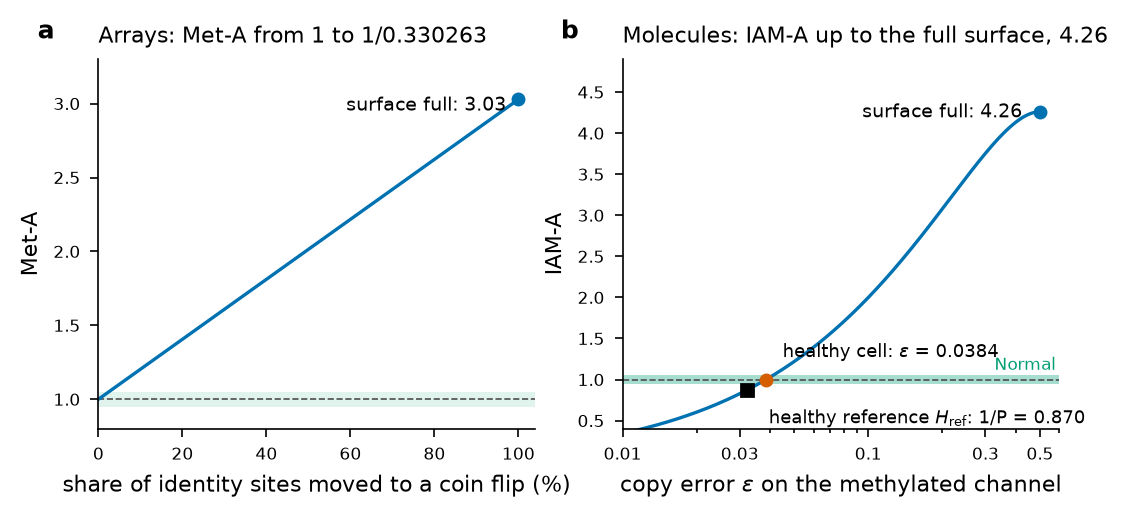
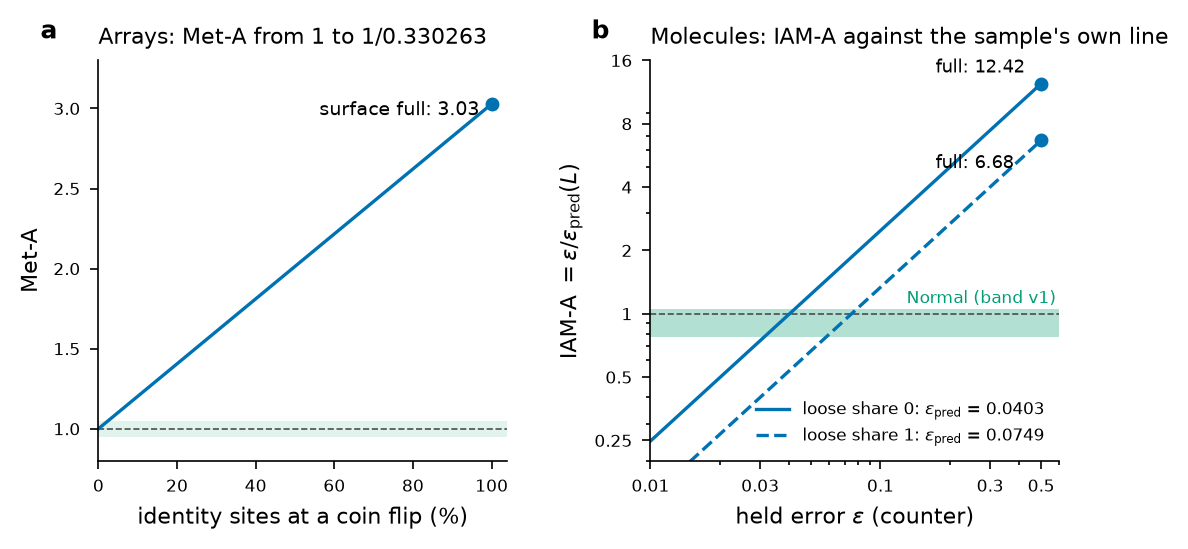
Book audit pass 2: floor-breach chapter and full-surface figure in the commissioned IAM-A form; IAM-A full surface 12.42 (was 12.41, rounding) (OTH-072)

diff --git a/docs/book/figscripts/fig_p4.py b/docs/book/figscripts/fig_p4.py
@@ -151,26 +151,29 @@ def fig_fullsurface():
     q = np.linspace(0, 1, 101)
     A_meta = ((1 - q) * h.mean() + q * 1.0) / HREF
     Amax = 1 / HREF
+    # (b) IAM-A as commissioned (2026-10-18; was the retired position form): A = eps / eps_pred(L), eps_pred(L) = firm + slope * L from the chain's
+    # self-reference line; the full surface is the held error at one half, so it is the sample's own: 0.5 / eps_pred(L)
+    SL = json.load(open(MP / "chain" / "Runtime Matrices" / "IAM_A_SelfRef" / "selfref_line_v1.json")); BD = json.load(open(MP / "chain" / "Runtime Matrices" / "IAM_A_SelfRef" / "band_v1.json"))
+    lo_b, hi_b = BD.get("lo", BD.get("band", {}).get("lo")), BD.get("hi", BD.get("band", {}).get("hi"))
     e = np.logspace(np.log10(0.01), np.log10(0.5), 300)
-    iam = H(e) / (P_NEU * H(EPS0)); Amax2 = 1 / (P_NEU * H(EPS0))
-    from scipy.optimize import brentq
-    eh = float(brentq(lambda x: H(x) / (P_NEU * H(EPS0)) - 1, EPS0, 0.5))   # exact root (0.03619), not a grid argmin
-    fig, (a1, a2) = plt.subplots(1, 2, figsize=(S.TEXTW, 2.4))
+    fig, (a1, a2) = plt.subplots(1, 2, figsize=(S.TEXTW, 2.6))
     a1.plot(q * 100, A_meta, color=S.IAM); normal_band(a1)
     a1.plot(100, Amax, "o", color=S.IAM, ms=4); a1.annotate(f"surface full: {Amax:.2f}", (100, Amax), xytext=(-62, -4), textcoords="offset points", fontsize=7)
-    a1.set_xlabel("share of identity sites moved to a coin flip (%)"); a1.set_ylabel("Met-A"); a1.set_xlim(0, 104); a1.set_ylim(0.8, 3.3)
+    a1.set_xlabel("identity sites at a coin flip (%)"); a1.set_ylabel("Met-A"); a1.set_xlim(0, 104); a1.set_ylim(0.8, 3.3)
     a1.set_title("Arrays: Met-A from 1 to 1/0.330263"); S.panel_letter(a1, "a")
-    a2.plot(e, iam, color=S.IAM); normal_band(a2, alpha=0.35)
-    a2.text(0.6 * 0.97, 1.07, "Normal", ha="right", va="bottom", fontsize=6, color=NCOL)
-    a2.plot(eh, 1.0, "o", color=S.DATA, ms=4, zorder=3); a2.annotate(f"healthy cell: $\\varepsilon$ = {eh:.4f}", (eh, 1.0), xytext=(6, 8), textcoords="offset points", fontsize=6.5)
-    a2.plot(EPS0, 1 / P_NEU, "s", color="k", ms=4); a2.annotate(f"healthy reference $H_{{\\rm ref}}$: 1/P = {1/P_NEU:.3f}", (EPS0, 1 / P_NEU), xytext=(8, -12), textcoords="offset points", fontsize=6.5)
-    a2.plot(0.5, Amax2, "o", color=S.IAM, ms=4); a2.annotate(f"surface full: {Amax2:.2f}", (0.5, Amax2), xytext=(-64, -2), textcoords="offset points", fontsize=7)
-    a2.set_xscale("log"); a2.set_xlim(0.01, 0.6); a2.set_ylim(0.4, 4.9)
+    fig.subplots_adjust(wspace=0.35)
+    a2.axhspan(lo_b, hi_b, color=NCOL, alpha=0.30, lw=0, zorder=0); a2.axhline(1.0, color=S.GR, lw=0.6, ls="--", zorder=0)
+    a2.text(0.6 * 0.97, hi_b * 1.02, "Normal (band v1)", ha="right", va="bottom", fontsize=6, color=NCOL)
+    for L, ls in ((0.0, "-"), (1.0, "--")):
+        ep = SL["firm"] + SL["slope"] * L; a2.plot(e, e / ep, color=S.IAM, ls=ls, label=f"loose share {L:.0f}: $\\varepsilon_{{\\rm pred}}$ = {ep:.4f}")
+        a2.plot(0.5, 0.5 / ep, "o", color=S.IAM, ms=4); a2.annotate(f"full: {0.5 / ep:.2f}", (0.5, 0.5 / ep), xytext=(-38, 4 if L == 0 else -10), textcoords="offset points", fontsize=6.5)
+    a2.set_xscale("log"); a2.set_yscale("log"); a2.set_xlim(0.01, 0.6); a2.set_ylim(0.2, 16)
+    a2.set_yticks([0.25, 0.5, 1, 2, 4, 8, 16], ["0.25", "0.5", "1", "2", "4", "8", "16"]); a2.yaxis.set_minor_formatter(plt.NullFormatter())
     a2.set_xticks([0.01, 0.03, 0.1, 0.3, 0.5], ["0.01", "0.03", "0.1", "0.3", "0.5"]); a2.xaxis.set_minor_formatter(plt.NullFormatter())
-    a2.set_xlabel(r"held error $\varepsilon$ on the methylated channel"); a2.set_ylabel("IAM-A")
-    a2.set_title(f"Molecules: IAM-A up to the full surface, {Amax2:.2f}"); S.panel_letter(a2, "b")
+    a2.set_xlabel(r"held error $\varepsilon$ (counter)"); a2.set_ylabel(r"IAM-A $=\varepsilon/\varepsilon_{\rm pred}(L)$"); a2.legend(loc="lower right", fontsize=6)
+    a2.set_title("Molecules: IAM-A against the sample's own line"); S.panel_letter(a2, "b")
     S.save(fig, "part6", "fig_p4_05_fullsurface")
-    return dict(Amax_meta=Amax, Amax_iama=Amax2, floor=1 / P_NEU, eps_healthy=eh, Hmean=float(h.mean()))
+    return dict(Amax_meta=Amax, Amax_iama_L0=0.5 / SL["firm"], Amax_iama_L1=0.5 / (SL["firm"] + SL["slope"]), Hmean=float(h.mean()))
 
 
 def fig_surfaces():

diff --git a/docs/book/part6/p6_00b_astrogenetics.tex b/docs/book/part6/p6_00b_astrogenetics.tex
@@ -127,7 +127,7 @@ for its mass to bend space in any way an instrument could detect, so the gravita
 saturation account does. A cell maintains its identity by writing its running record onto the surface available to it, which is not
 spacetime but its own chromatin, the methylation pattern. A healthy cell sits well below the limit of what that surface can hold. The limit
 itself is exact and known from the healthy reference alone: the surface is full when every identity site sits at a coin flip,
-$\beta=\tfrac12$, which for neutrophils is $A=1/0.330263=3.03$ on arrays (Met-A). On single molecules IAM-A reads each sample against its own line, so its full surface is the sample's own: the held error at one half, $A=0.5/\varepsilon_{\rm pred}(L)$, between 6.68 and 12.41 (Chapter~\ref{ch:floorbreach}). \calc
+$\beta=\tfrac12$, which for neutrophils is $A=1/0.330263=3.03$ on arrays (Met-A). On single molecules IAM-A reads each sample against its own line, so its full surface is the sample's own: the held error at one half, $A=0.5/\varepsilon_{\rm pred}(L)$, between 6.68 and 12.42 (Chapter~\ref{ch:floorbreach}). \calc
 
 A cell moving toward cancer is, in this reading, one whose record is climbing toward that full surface, writing more and more error onto
 a surface that has only so much room, until the surface is full. The black hole and the tumor
@@ -150,7 +150,7 @@ The gauge has three fixed points, and each comes from physics or from the cell's
 point & what it is & neutrophils \\\midrule
 the floor $\Hmin$, on the left & where thermal kicks win against everything one ATP can buy: a held error of $1/(1+e^{M})=8\times10^{-10}$, $\Hmin=2.5\times10^{-8}$ bits per site; nothing reads below it & Met-A $1\times10^{-7}$; IAM-A $1$--$2\times10^{-8}$, the sample's own (\calc) \\
 1, in the middle & the healthy reference: the same cell type healthy, on the same platform, through the same calibration; Met-A's Normal is $1\pm0.05$, a design tolerance; IAM-A's band v1 is $0.779$--$1.055$ & Met-A 0.330263 bits on EPIC (\calibrated); IAM-A the held error the sample's own loose share predicts on the healthy line, $\varepsilon_{\rm pred}(L)=0.0403+0.0346\,L$ (\measured) \\
-the full surface, on the right & every identity site at a coin flip: the most a pattern can be blurred & Met-A 3.03; IAM-A $0.5/\varepsilon_{\rm pred}(L)$, 6.68--12.41 (\calc) \\\bottomrule
+the full surface, on the right & every identity site at a coin flip: the most a pattern can be blurred & Met-A 3.03; IAM-A $0.5/\varepsilon_{\rm pred}(L)$, 6.68--12.42 (\calc) \\\bottomrule
 \end{tabularx}
 \end{center}
 Breach, the point past which a cell's over-writing reads as cancer, lies to the right of Normal and short of the full surface; the cell there has not lost its identity, it is writing too much error (identity that cannot be held is the other end, left of the floor). It is to

diff --git a/docs/book/part6/p6_05_floorbreach.tex b/docs/book/part6/p6_05_floorbreach.tex
@@ -60,18 +60,16 @@ neutrophils on arrays that is
   A_{\max}^{\text{Met-A}}=\frac{1}{0.330263}=3.03,
   \label{eq:Amax}
 \end{equation}
-and on single molecules, where the held error itself reaches one half, $A_{\max}^{\text{IAM-A}}=1/(1.149\times0.2043)=4.26$ in the earlier position form of IAM-A (now a development flag). The commissioned IAM-A reads each sample against its own line, $A=\varepsilon/\varepsilon_{\rm pred}(L)$, so its far end is the sample's own: $A_{\max}=0.5/\varepsilon_{\rm pred}(L)$, from $12.41$ for a sample with no loose tiles to $6.68$ for one that is all loose.
-\calc{} Both follow from the healthy reference alone; neither is fitted. They are the cell's counterpart of the
+and on single molecules, where the held error itself reaches one half. IAM-A reads each sample against its own line, $A=\varepsilon/\varepsilon_{\rm pred}(L)$, so its far end is the sample's own: $A_{\max}^{\text{IAM-A}}=0.5/\varepsilon_{\rm pred}(L)$, from $12.42$ for a sample with no loose tiles to $6.68$ for one that is all loose.
+\calc{} Both follow from the reference alone, the healthy cell type's on arrays and the sample's own on molecules; neither is fitted. They are the cell's counterpart of the
 Chandrasekhar line on the star gauge of Chapter~\ref{ch:blackholes} (Figure~\ref{fig:stargauge}): the exactly known far end of the gauge.
 
 Figure~\ref{fig:p4_fullsurface} draws both readings from the healthy cell to the full surface.
 
 \begin{figure}[htbp]\centering
 \includegraphics[width=0.95\textwidth]{figures/part6/fig_p4_05_fullsurface.pdf}
-\caption{The far end of the gauge, from the healthy reference alone. (a) Met-A when a share of the 6,000 identity sites is moved to $\beta=\tfrac12$:
-from 1 to $1/0.330263=3.03$. (b) IAM-A in its earlier position form, $H(\varepsilon)/(P\,H(\varepsilon_0))$ (now a development flag), against held error, with $P=1.149$ and
-$\varepsilon_0=0.032$: the average healthy cell type ($\Href$) at $1/P=0.870$, the healthy neutrophil at $\varepsilon=0.0384$, the full surface
-4.26 at $\varepsilon=\tfrac12$. Normal shaded. \calc}
+\caption{The far end of the gauge, from the reference alone. (a) Met-A when a share of the 6,000 identity sites is moved to $\beta=\tfrac12$:
+from 1 to $1/0.330263=3.03$. (b) IAM-A, $\varepsilon/\varepsilon_{\rm pred}(L)$, against the held error, for a sample with no loose tiles ($L=0$, solid) and one that is all loose ($L=1$, dashed), on the chain's self-reference line ($\varepsilon_{\rm pred}=0.0403+0.0346\,L$): the full surface at $\varepsilon=\tfrac12$ is 12.42 and 6.68. IAM-A's Normal band (band v1, 0.779--1.055) shaded. \calc}
 \label{fig:p4_fullsurface}
 \end{figure}
 

diff --git a/docs/book/part6/p6_06_gauge.tex b/docs/book/part6/p6_06_gauge.tex
@@ -23,7 +23,7 @@ because the question is whether this cell is still the cell it should be.
 C-score (not built). On every row 1 is the healthy reference, in the middle; the left half runs from the floor to 1 and the right half from 1 to
 the far end on a log scale, so the two halves are not on one scale. Normal (green) is $0.95$--$1.05$ on the Met-A row. Bars are measured readings: held-out
 healthy arrays, and the same arrays with known damage (Chapter~\ref{ch:skytools}). $\Hmin$, the floor where thermal kicks win against one ATP, is at $1\times10^{-7}$ on the Met-A row and $1$--$2\times10^{-8}$ on the IAM-A row (the sample's own), off the left edge. Breach and the cancer region lie to the right of Normal and are
-to be measured on this scale. The surface is full when every identity site sits at a coin flip: $3.03$ (Met-A); on IAM-A, read against the sample's own line, when the held error reaches one half, $0.5/\varepsilon_{\rm pred}(L)$, between $6.68$ and $12.41$.
+to be measured on this scale. The surface is full when every identity site sits at a coin flip: $3.03$ (Met-A); on IAM-A, read against the sample's own line, when the held error reaches one half, $0.5/\varepsilon_{\rm pred}(L)$, between $6.68$ and $12.42$.
 The Met-A C-score sits on the same gauge: 1 is the healthy baseline, and its far end, every 50-site block moving as one, is 45. \calc}
 \label{fig:gauge}
 \end{figure}
@@ -38,7 +38,7 @@ healthy reference & 1 (IAM-A: the sample's own line, $\varepsilon_{\rm pred}(L)=
 Normal (Met-A) & $0.95$--$1.05$ & a design tolerance set by hand (2026-10-01), then confirmed on healthy arrays (525 of 541 inside); IAM-A has its own band, v1 $0.779$--$1.055$, each sample read against its own reference, and does not borrow this one \\
 breach & to be measured & placed from per-person data: tumor/normal pairs, the DNMT1-inhibitor series, blood cancers \\
 cancer region & beyond breach & to be measured the same way \\
-full surface & Met-A $3.03$; IAM-A $0.5/\varepsilon_{\rm pred}(L)$, $6.68$--$12.41$ & \calc{} from the healthy reference alone (Met-A) and from the sample's own line (IAM-A) \\
+full surface & Met-A $3.03$; IAM-A $0.5/\varepsilon_{\rm pred}(L)$, $6.68$--$12.42$ & \calc{} from the healthy reference alone (Met-A) and from the sample's own line (IAM-A) \\
 C-score far end & Met-A C-score $45$ & \calc{} block size 50 over the healthy baseline 1.1104; the sequencing C-score was tried and does not hold on reduced-representation reads \\\bottomrule
 \end{tabular}
 \end{center}

diff --git a/docs/book/appendices/app_F_glossary.tex b/docs/book/appendices/app_F_glossary.tex
@@ -43,7 +43,7 @@ filed under the name of its letter.
 \iamrowrule
 \textbf{Alcubierre metric} & A solution of general relativity in which a flat region is carried by reshaping the geometry around it. It requires negative energy density in the wall, violating the weak energy condition. {\footnotesize(Ch.~\ref{ch:exploratory})}\\[1pt]
 \iamrowrule
-\textbf{$A_{\max}$ (full surface)} & The far end of a cell gauge: the reading when every identity site sits at a coin flip, one bit over the healthy reference. For neutrophils 3.03 on Met-A, from the healthy reference alone. On IAM-A it is the sample's own, the held error at one half over what its loose share predicts, $0.5/\varepsilon_{\rm pred}(L)$, between 6.68 and 12.41. {\footnotesize(Chs.~\ref{ch:floorbreach}, \ref{ch:gauge})}\\[1pt]
+\textbf{$A_{\max}$ (full surface)} & The far end of a cell gauge: the reading when every identity site sits at a coin flip, one bit over the healthy reference. For neutrophils 3.03 on Met-A, from the healthy reference alone. On IAM-A it is the sample's own, the held error at one half over what its loose share predicts, $0.5/\varepsilon_{\rm pred}(L)$, between 6.68 and 12.42. {\footnotesize(Chs.~\ref{ch:floorbreach}, \ref{ch:gauge})}\\[1pt]
 \iamrowrule
 \textbf{AMD Ryzen 9 9950X} & A desktop processor; the worked example of the chip gauge and the baseline of prediction S2. Its power and clock are the maker's specification; no maker-published transistor count exists, so its reading is the range 576--593 times $\kB T_j\ln2$ set by the two die-level counts, $(20.0\text{--}20.6)\times10^9$. {\footnotesize(Chs.~\ref{ch:cmos}, \ref{ch:landauer}, \ref{ch:onegauge})}\\[1pt]
 \iamrowrule

diff --git a/docs/book/part7/p7_08_one_gauge.tex b/docs/book/part7/p7_08_one_gauge.tex
@@ -40,7 +40,7 @@ chip gauge & $E_{\rm sw}=\mathrm{TDP}/(Nf)$ & the chip as built & Landauer floor
 \end{tabular}\end{center}
 Some systems also have a point on the high side where they stop working: for a qubit, the gate error at which error correction fails ($p\approx1\,\%$;
 the transmon worked example at $A=10$). For cells the high side is the cancer direction. Breach and the cancer region beyond it lie to the right of Normal and are to be measured on this scale from per-person data; the far end, a full
-surface, is known: $1/0.330263=3.03$ on Met-A for neutrophils, and on IAM-A the sample's own, the held error at one half, $0.5/\varepsilon_{\rm pred}(L)$, between $6.68$ and $12.41$ \calc. For a compact star the far-right line is a
+surface, is known: $1/0.330263=3.03$ on Met-A for neutrophils, and on IAM-A the sample's own, the held error at one half, $0.5/\varepsilon_{\rm pred}(L)$, between $6.68$ and $12.42$ \calc. For a compact star the far-right line is a
 limiting mass: the Chandrasekhar mass for a white dwarf and the maximum (TOV) mass for a neutron star (Chapter~\ref{ch:blackholes}, Fig.~\ref{fig:stargauge}). The region between $H_{\min}$ and the healthy
 band is less error than healthy; for cells what it means biologically is the next thing to measure.
 

diff --git a/docs/book/part6/p6_24_status.tex b/docs/book/part6/p6_24_status.tex
@@ -28,7 +28,7 @@ IAM-A (sequencing, its own reference): commissioned 2026-10-17 on healthy blood 
 
 Met-A C-score baseline 1.0103 (blocks of 10); healthy band 0.877--1.152, read one-sided; commissioned on whole blood 2026-10-15 & \calibrated & Ch.~\ref{ch:cscore} \\ \rowrule
 $A=1$ healthy in the middle; Normal $=1\pm0.05$ & design tolerance & Ch.~\ref{ch:gauge} \\ \rowrule
-floor $\Hmin$: Met-A $1\times10^{-7}$, IAM-A $1$--$2\times10^{-8}$ (the sample's own); surface full: Met-A 3.03, IAM-A $0.5/\varepsilon_{\rm pred}(L)$, 6.68--12.41; C-score far end 45 & \calc & Ch.~\ref{ch:gauge} \\ \rowrule
+floor $\Hmin$: Met-A $1\times10^{-7}$, IAM-A $1$--$2\times10^{-8}$ (the sample's own); surface full: Met-A 3.03, IAM-A $0.5/\varepsilon_{\rm pred}(L)$, 6.68--12.42; C-score far end 45 & \calc & Ch.~\ref{ch:gauge} \\ \rowrule
 breach and the cancer region on this gauge & \openprob{} (to be measured) & Ch.~\ref{ch:gauge} \\ \rowrule
 the Met-A floor ($H_{\min}$ on the Met-A scale) & \openprob & Ch.~\ref{ch:gauge} \\ \rowrule
 at fixed holding energy, held error $\varepsilon_0$: $0.73\times$ at 10\,\textdegree C, $1.016\times$ at 38.5\,\textdegree C; entropy floor $H(\varepsilon_0)$: $0.78\times$ and $1.012\times$ & \calc & Ch.~\ref{ch:temperature} \\ \rowrule

diff --git a/docs/book/part7/p7_08_synthesis.tex b/docs/book/part7/p7_08_synthesis.tex
@@ -30,7 +30,7 @@ cosmic horizon ($2.65\times10^{-30}$\,K, $H_0=67.16$) & classical records of dec
 black hole ($6.2\times10^{-8}$\,K at $1M_\odot$) & everything that fell in & --- & Bekenstein bound; $Nk_BT_H\ln2=\tfrac12Mc^2$ & \derived{} (Smarr) \\
 qubit (its own temperature, 35\,mK for a transmon on a 15\,mK stage) & the qubit state & thermal floor $p_{\rm eq}t_g/T_1$, $p_{\rm eq}=1/(1+e^{hf/\kB T})$ & a fully decohered state & floor \derived \\
 transistor (300--350\,K) & a logic level per switch & $\kB T_j\ln2$ per irreversible bit & --- & floor \derived; 9950X at $576$--$593\times$ \calc \\
-cell (310\,K) & the methylation identity pattern & one ATP per site, $1/(1+e^{M})$, $1\times10^{-7}$ on the gauge; healthy reference $\varepsilon_0=0.032$ & every identity site at $\beta=\tfrac12$: Met-A 3.03; IAM-A $0.5/\varepsilon_{\rm pred}(L)$, 6.68--12.41 & floor \calc; reference \measured \\
+cell (310\,K) & the methylation identity pattern & one ATP per site, $1/(1+e^{M})$, $1\times10^{-7}$ on the gauge; healthy reference $\varepsilon_0=0.032$ & every identity site at $\beta=\tfrac12$: Met-A 3.03; IAM-A $0.5/\varepsilon_{\rm pred}(L)$, 6.68--12.42 & floor \calc; reference \measured \\
 \bottomrule
 \end{tabularx}
 \end{table}

diff --git a/docs/book/part7/p7_11_status_all.tex b/docs/book/part7/p7_11_status_all.tex
@@ -92,7 +92,7 @@ Holding energy of a methylated site and the held-error floor & $E_{\rm hold}=3.4
 Neutrophil position on IAM-A & $P=1.149$ (3 donors, whole files, 1.140--1.155) & \measured & Ch.~\ref{ch:iama} \\
 Neutrophil reference on EPIC (Met-A) & 0.330263 bits; 6 arrays, 6,000 identity sites & \calibrated & Ch.~\ref{ch:meta} \\
 Held-out reading of the six reference arrays & standard deviation 0.020 around 1 & \measured & Ch.~\ref{ch:meta} \\
-Floor and the full surface & floor: Met-A $1\times10^{-7}$, IAM-A $1$--$2\times10^{-8}$; full: Met-A 3.03, IAM-A $0.5/\varepsilon_{\rm pred}(L)$, 6.68--12.41 & \calc & Ch.~\ref{ch:gauge} \\
+Floor and the full surface & floor: Met-A $1\times10^{-7}$, IAM-A $1$--$2\times10^{-8}$; full: Met-A 3.03, IAM-A $0.5/\varepsilon_{\rm pred}(L)$, 6.68--12.42 & \calc & Ch.~\ref{ch:gauge} \\
 Breach and the cancer region on the gauge & to be measured & \openprob & Ch.~\ref{ch:gauge} \\
 Floor at fixed holding energy & held error $0.73\times$, entropy floor $0.78\times$ at 10~\textdegree C; $1.016\times$ and $1.012\times$ at 38.5~\textdegree C & \calc & Ch.~\ref{ch:temperature} \\
 Atlas v2 intervals on held-out data & 92.7\,\% coverage & \measured & Ch.~\ref{ch:atlas} \\

diff --git a/docs/book/appendices/app_N_notation.tex b/docs/book/appendices/app_N_notation.tex
@@ -117,7 +117,7 @@ $P_{\rm cell}\Href$ & IAM-A healthy reference (neutrophils) & 0.2348 bits & \cal
 $1/P_{\rm cell}$ & position of $\Href$ on the neutrophil IAM-A gauge & 0.870 & \calc \\\iamrowrule
 Met-A reference & Met-A healthy reference, EPIC v1 neutrophils & 0.330263 bits & 6 purified arrays, 6,000 sites; \calibrated \\\iamrowrule
 Normal & the healthy band of a reading & Met-A $0.95$--$1.05$; IAM-A $0.779$--$1.055$ & Met-A a design tolerance, $A=1\pm5\,\%$; IAM-A band v1, measured \\\iamrowrule
-$A_{\max}$ & full surface: every identity site at a coin flip & 3.03 (Met-A); 6.68--12.41 (IAM-A) & $1/0.330263$; $0.5/\varepsilon_{\rm pred}(L)$, the sample's own; \calc \\\iamrowrule
+$A_{\max}$ & full surface: every identity site at a coin flip & 3.03 (Met-A); 6.68--12.42 (IAM-A) & $1/0.330263$; $0.5/\varepsilon_{\rm pred}(L)$, the sample's own; \calc \\\iamrowrule
 $c_{\rm healthy}$ & healthy clustering baseline of the Met-A C-score & 1.1104 & median of six held-out arrays; \calibrated \\\iamrowrule
 $N$ (noise index) & mean $H(\beta)$ over the fixed noise sites & 48,528 sites & measured on every array \\
 \bottomrule\end{longtable}}

diff --git a/docs/book/appendices/app_C2_reproduce_cells.tex b/docs/book/appendices/app_C2_reproduce_cells.tex
@@ -26,7 +26,7 @@ eps0 = 0.032                                      # frozen value (Appendix A2)
 print(Ehold/M, eps0)                              # phi = 0.163 ; eps0 = 0.032
 print(H(eps0), 1.1492*H(eps0), 1/1.1492)          # H_ref 0.2043 ; neutrophil 0.2348 ; 0.870
 print(H(1/(1 + math.exp(M))))                     # H_min, the floor: 2.5e-08
-print(1/0.330263, 0.5/0.0403, 0.5/(0.0403+0.0346)) # A_max: 3.03 (Met-A) ; IAM-A 0.5/eps_pred(L): 12.41 (L=0) to 6.68 (L=1)
+print(1/0.330263, 0.5/0.040265, 0.5/(0.040265+0.034625)) # A_max: 3.03 (Met-A) ; IAM-A 0.5/eps_pred(L): 12.42 (L=0) to 6.68 (L=1)
 d = "Biological_Physics/MethylPhys/chain/Runtime Matrices/"
 f = json.load(open(d + "Met_A_Floors/metA_floors_v1_3.json"))["platforms"]["EPIC"]["neutrophils"]
 print(f["floor"], f["n_ref"], f["n_sites"])         # 0.330263 ; 6 ; 6000

diff --git a/development/METHYLPHYS_DEVELOPMENT_LOG.md b/development/METHYLPHYS_DEVELOPMENT_LOG.md
@@ -2383,3 +2383,4 @@ Book audit pass 2 (OTH-072): Landauer (retired term; IAM-A own-reference reading
 Book audit pass 2 continued (OTH-072): C-score (figure labeled as the pre-2026-10-09 construction; HEALPix sky in the report), translation (two solvers in chain v4; the Normal band is a line on the gauge, not a comparison; map scores dated, three rows since in the chain), instrument (Met-A tare named; sequencing intake and shape check), discipline (five commissioned instruments; synthetic-first rule with C23; clean-clone release check).
 Book audit pass 2 continued (OTH-072): leukocyte (CD8 T cells on IAM-A; composition against IAM-Atlas v2.1; the immune track); status (Met-A commissioning row added, duplicate IAM-A row removed, summary figure redrawn with the grand-test readings and IAM-A's own band, label count 32 rows); temperature, status and Part 7 status: "held-error floor 0.78x" relabeled; 0.78 and 1.012 are the entropy floor H(eps0) ratios, the held error itself is 0.73x and 1.016x.
 Book audit pass 2 continued (OTH-072): bridge (IAM-A described by its own-reference reading, not the retired position; C-score tied to Met-A on arrays; Parts list). Found: the SOP and operations manual cover chain v3 only; added as OTH-074 for the researcher package.
+Book audit pass 2 continued (OTH-072): floor-breach chapter and its full-surface figure redrawn for IAM-A as commissioned (panel b: A = eps/eps_pred(L) at L = 0 and 1, with band v1). Correction: the IAM-A full surface at loose share 0 is 0.5/0.040265 = 12.42, not 12.41 (the intercept had been rounded to 0.0403 before dividing; my error of 2026-10-17); fixed in 10 book files and the gauge-marks file, frozen-input checksum updated.
